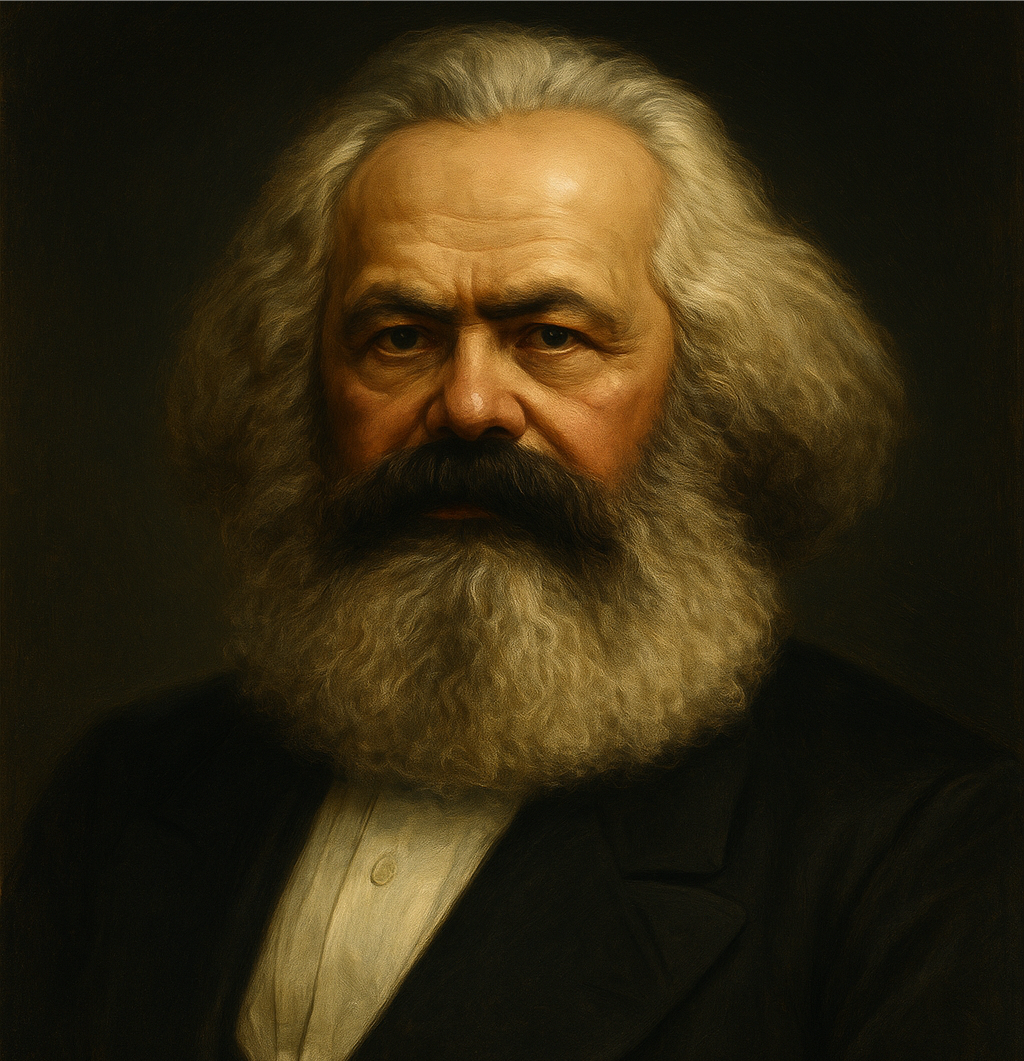
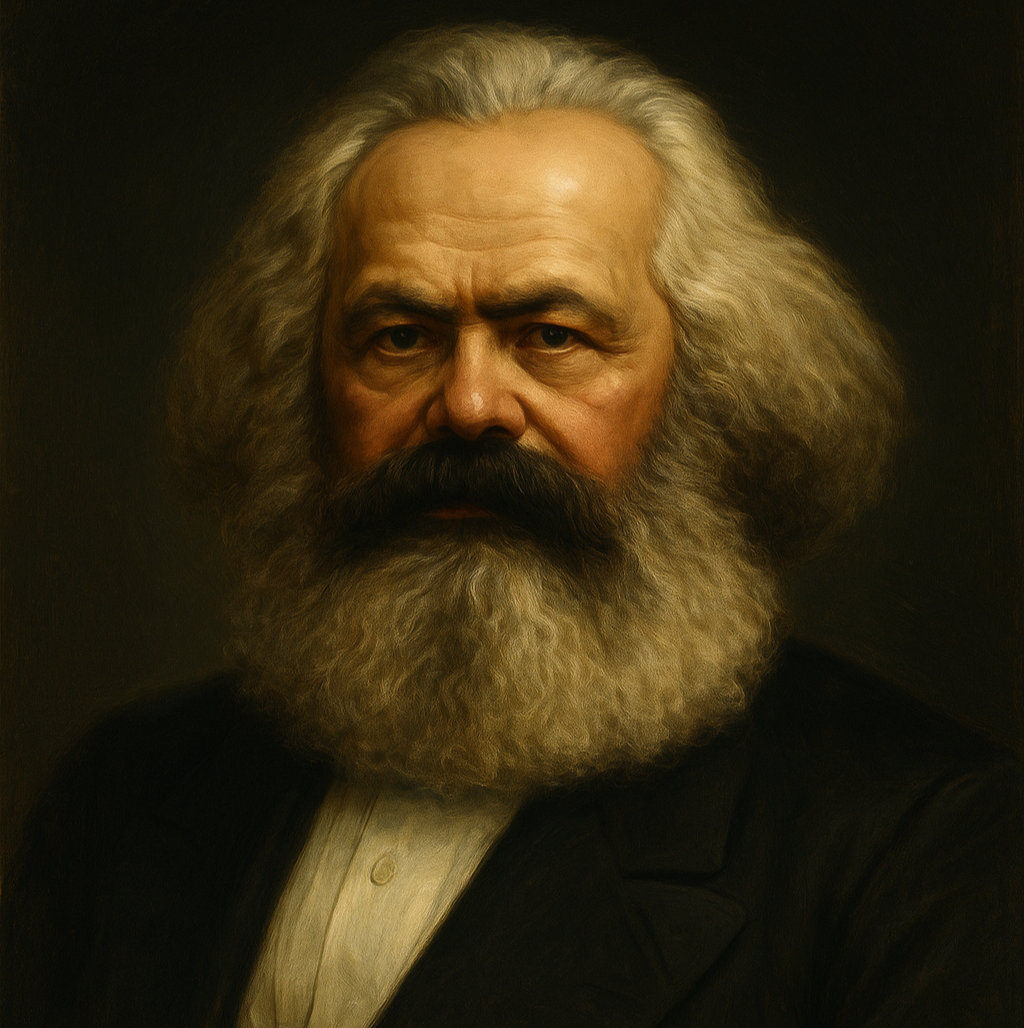
Update thinker images and add hochiminh.png
Replaced the placeholder image for Hồ Chí Minh in index.html with a local hochiminh.png file and added the image to the repository. Also updated marx.png with a new version.

diff --git a/index.html b/index.html
@@ -355,7 +355,7 @@
                         <div class="thinker-card card h-100 shadow" data-aos="zoom-in" data-aos-delay="300">
                             <div class="card-body text-center">
                                 <div class="thinker-avatar mb-3">
-                                    <img src="https://via.placeholder.com/150x180/8b7355/ffffff?text=Ho+Chi+Minh" 
+                                    <img src="./pic/hochiminh.png" 
                                          alt="Hồ Chí Minh" 
                                          class="thinker-image">
                                 </div>
